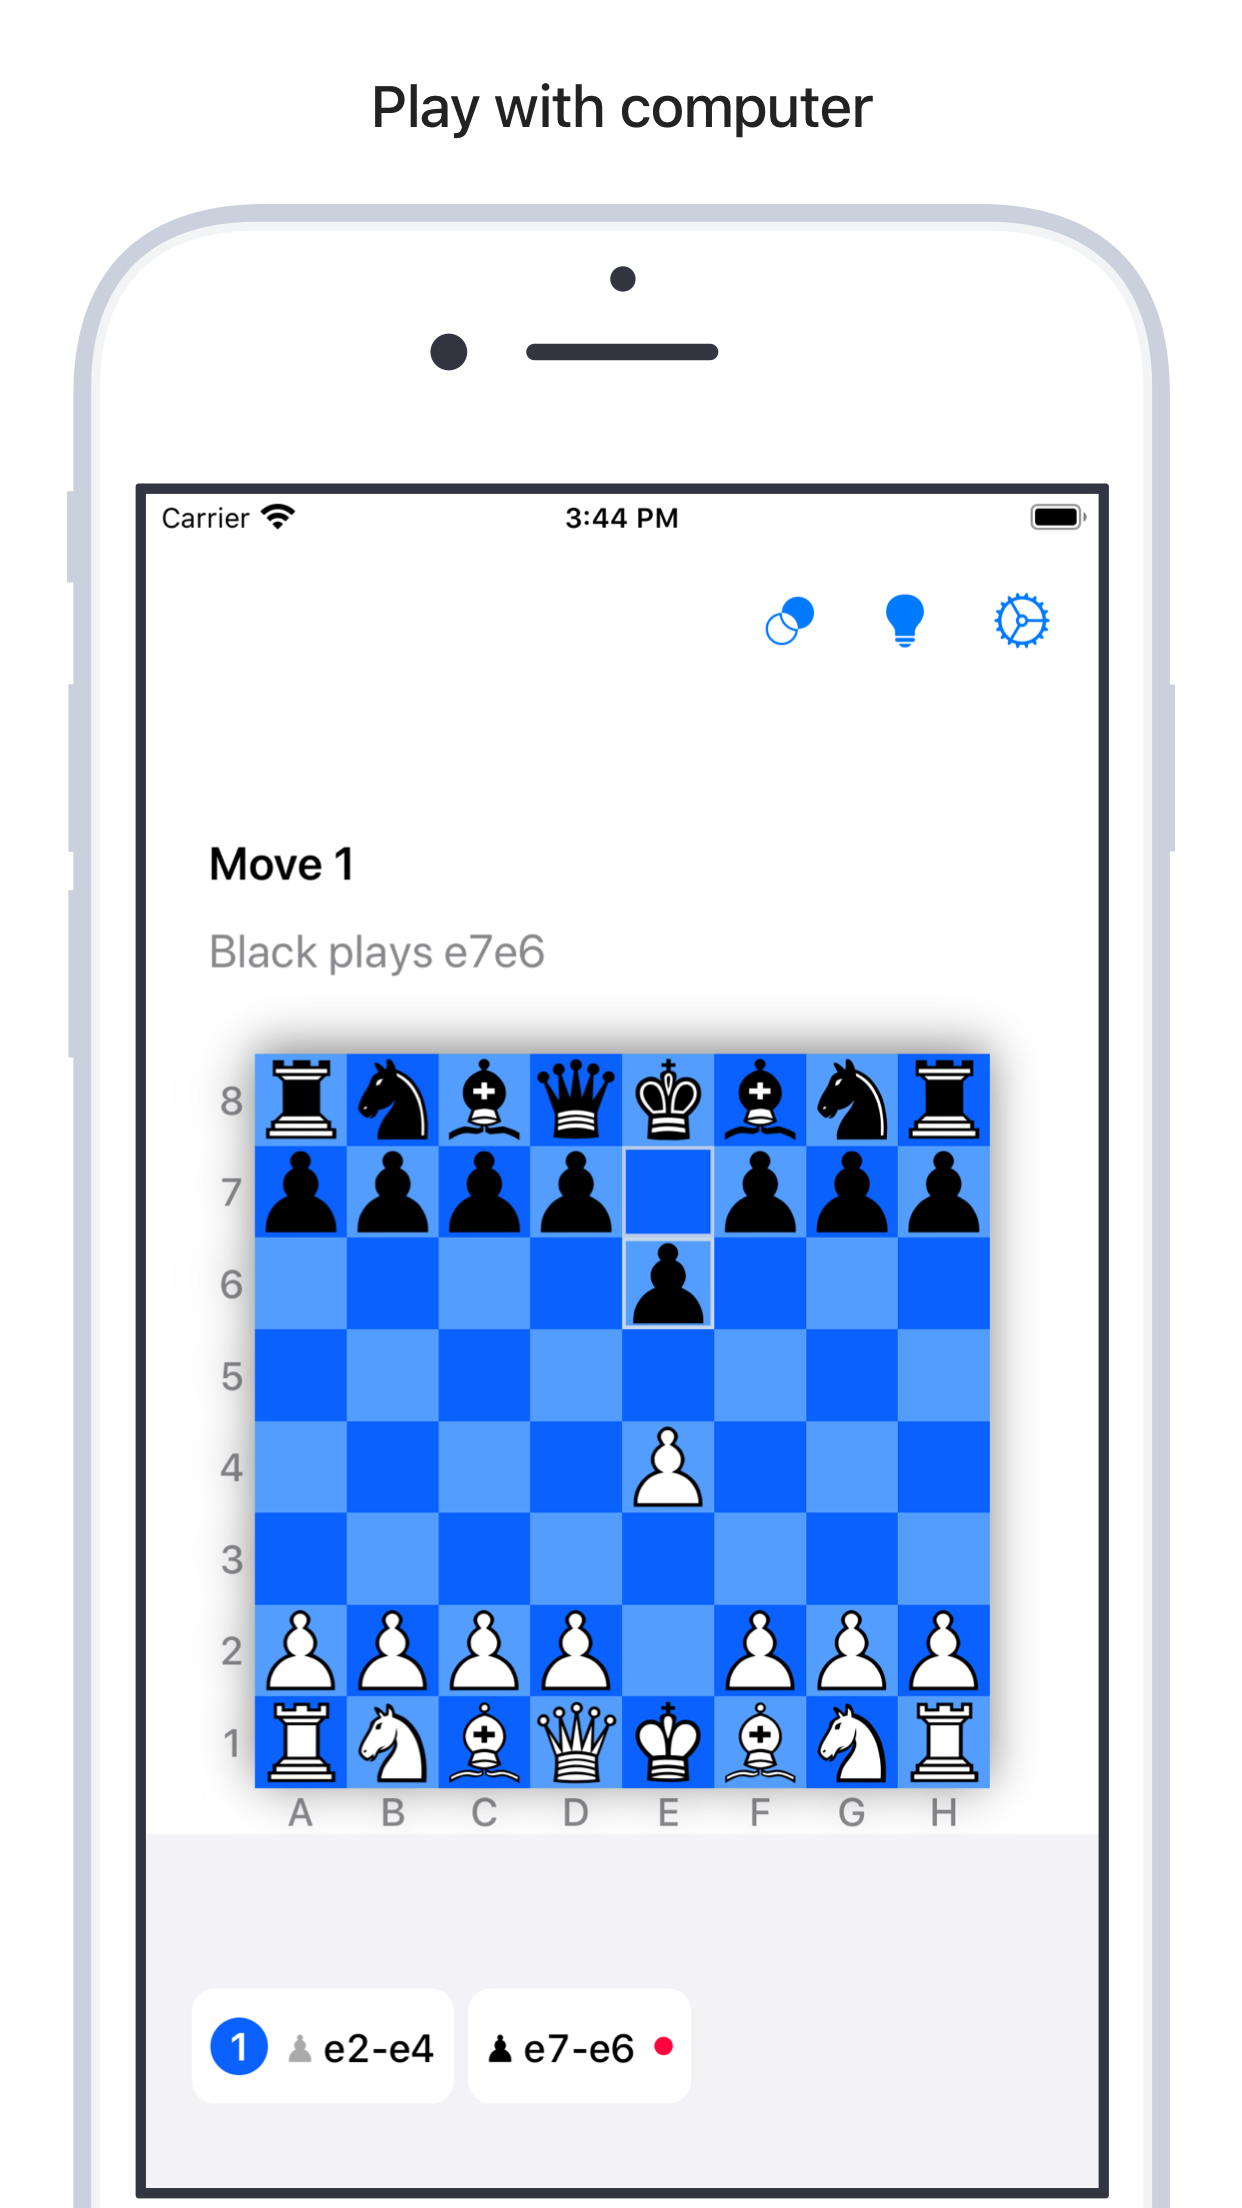
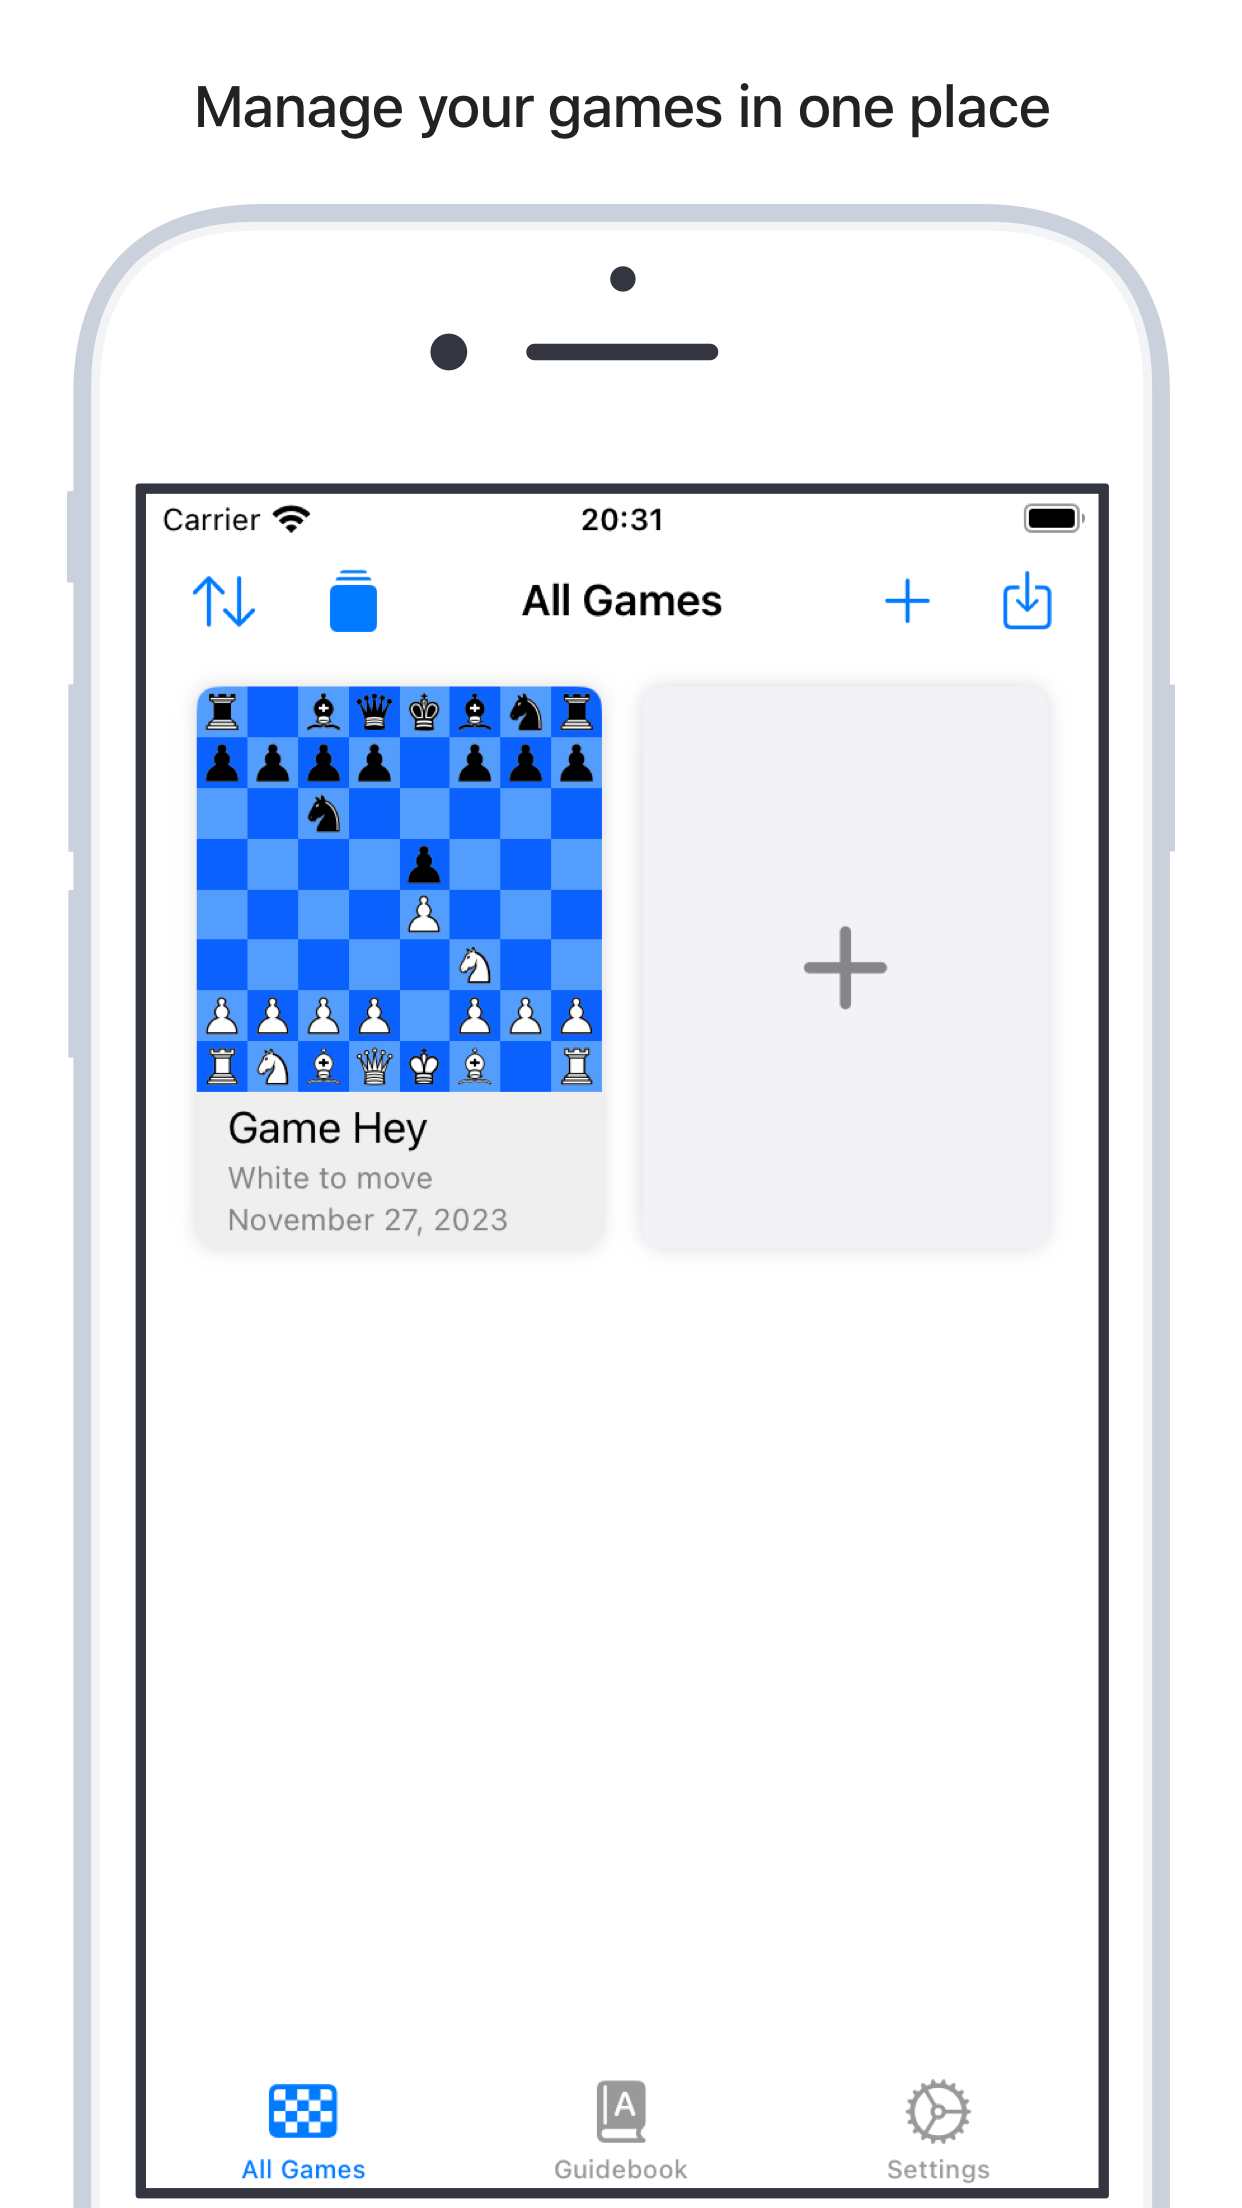
Update screenshots and release info for 7.0

diff --git a/description.md b/description.md
@@ -1,18 +1,18 @@
 ChessBot is an elegant chess app with powerful features.
 
 - Basic move operations and outcome detection
-- A strong chess engine which offers hints for next moves
+- A strong chess engine that generates moves suggestion
 - Human v.s. human & human v.s. computer modes
 - PGN files importing and exporting
-- Game saving and sharing
+- PGN files preview
+- Chess game saving and sharing
 - Encyclopedia of chess openings
-- Play chess in iMessages extensions
-- Preview PGN files in the iOS File app
+- iMessage extension & Quicklook
 
 ChessBot is also available on Mac App Store and Apple TV App Store, check it out!
 
 More features will be added in the future. Enjoy it!
-If you have any suggestions or complaints, please feel free to tell us.
+Please let us know if you have any suggestions or complaints.
 
-Twitter:@gitbotapp
+Web: http://artlvr.com/chessbotapp/
 E-mail: chessbotapp@outlook.com

diff --git a/updateInfo.md b/updateInfo.md
@@ -1,4 +1,4 @@
-- Update chess engine
-- Refine settings page
-- Show arrow for move
-- Stability improved
+- Introducing the Guidebook: Explore a plethora of chess openings to sharpen your skills.
+- Fine-tuning localizations, including Traditional Chinese and Russian.
+- Improving the overall user interface design for a more cohesive experience.
+- Bug fixes and enhanced stability.
